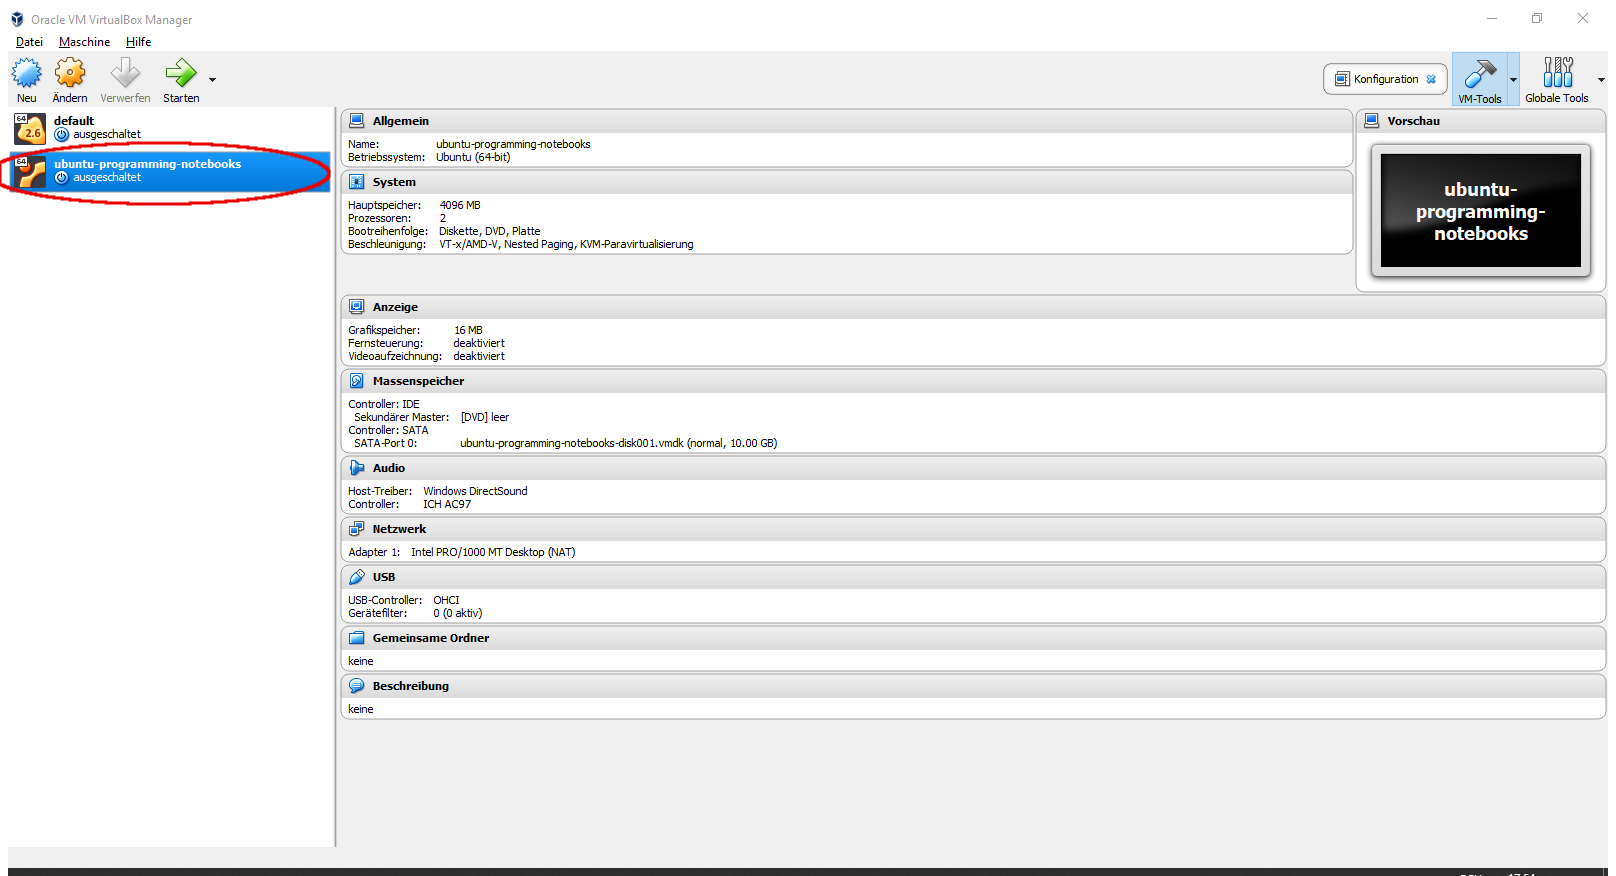
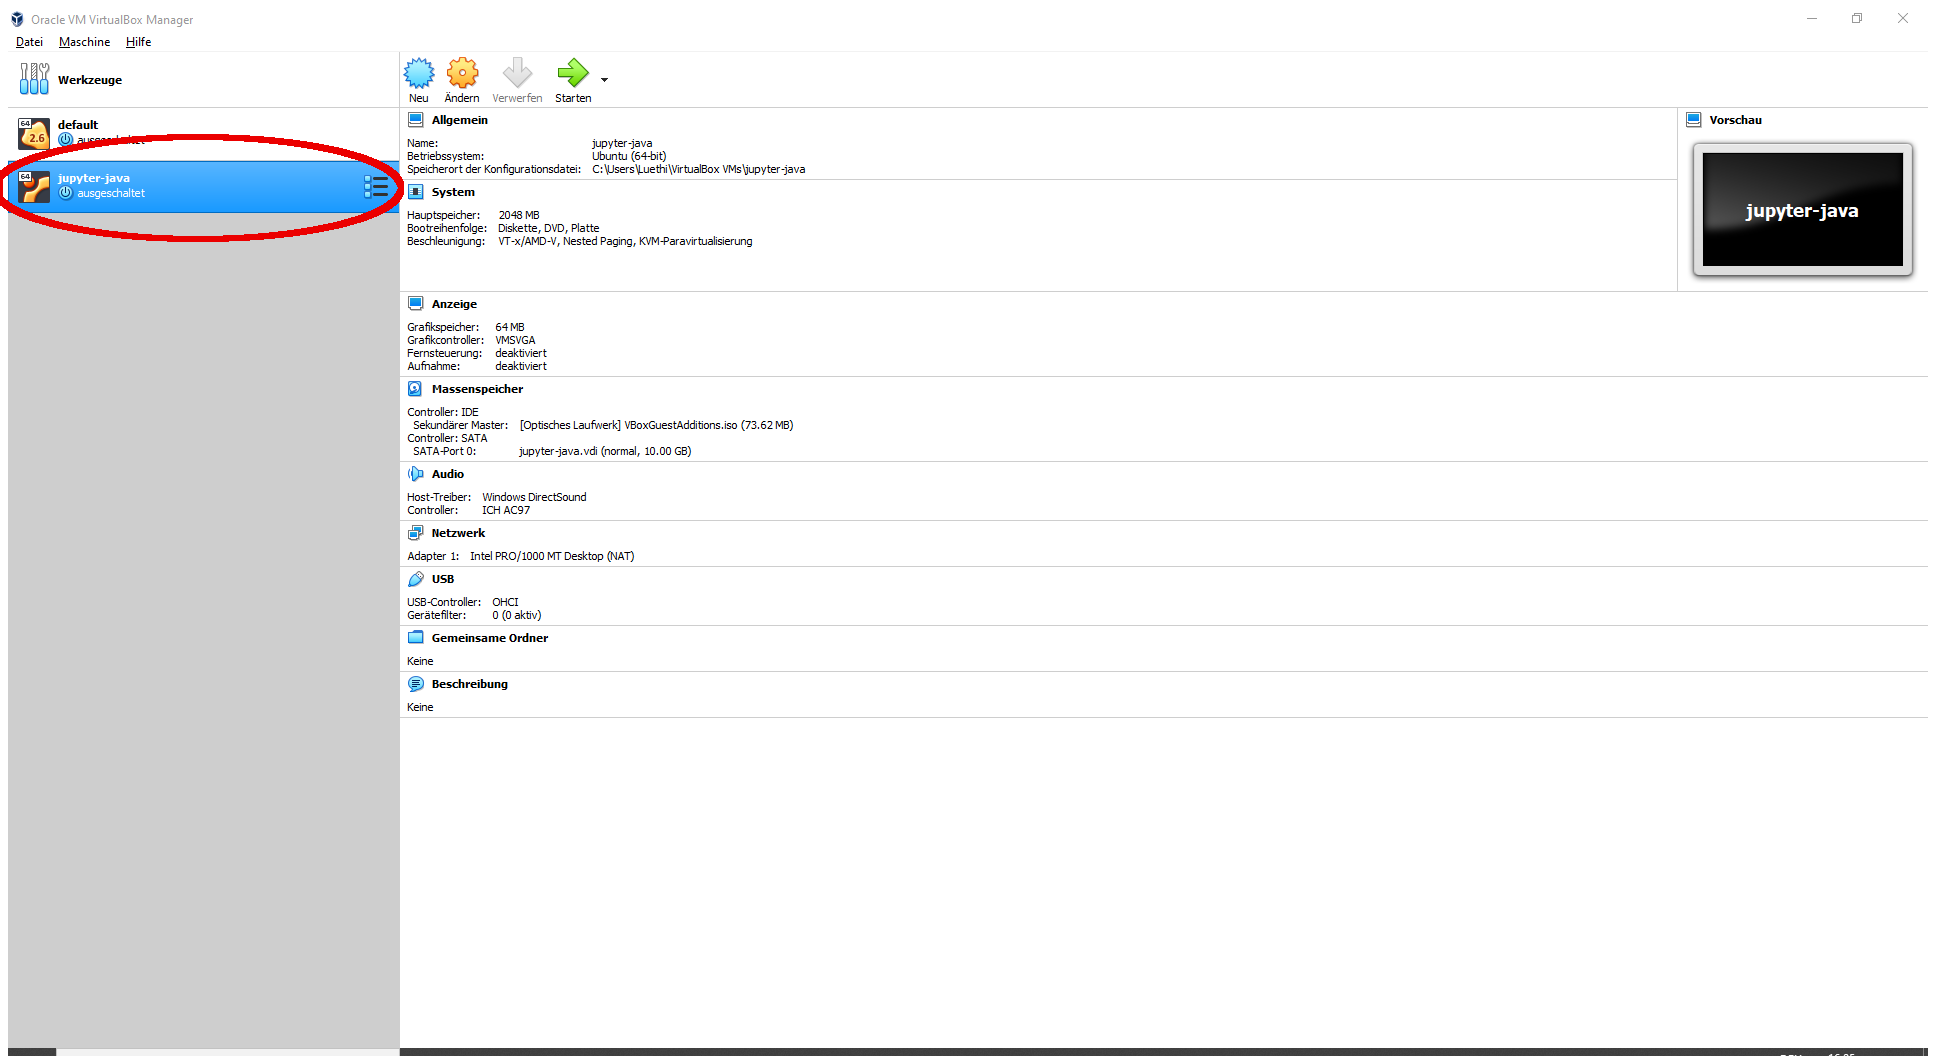
added section regarding virtualbox

diff --git a/docs/installation.md b/docs/installation.md
@@ -3,11 +3,49 @@
 Jupyter-Notebooks sind eine Webanwendung, die es ermöglicht Programme in einem Webbrowser zu schreiben, zu kommentieren und auszuführen. 
  Jupyter Notebooks wurden ursprünglich für Python geschrieben, sind aber inzwischen auch für andere Programmiersprachen verfügbar. Seit kurzen besteht auch die Möglichkeit, Jupyter Notebooks mit Java zur nutzen. 
  Da das dafür benötigte [ijava](https://github.com/SpencerPark/IJava) Programm noch nicht im Standardumfang von Jupyter Notebooks enthalten ist, ist die Installation noch etwas aufwändig. 
- Wir stellen Ihnen deshalb einen [Docker](https://www.docker.com/) Container mit der bereits fertig augesetzten Umgebung zur Verfügung.  Diese Anleitung beschreibt wie Sie diesen Docker Container auf Ihrem System nutzen können.
+ Wir stellen Ihnen deshalb ein [Virtualbox](www.virtualbox.org) image sowie einen [Docker](https://www.docker.com/) Container mit der bereits fertig auggesetzten Umgebung zur Verfügung.  Diese Anleitung beschreibt wie Sie diese Umgebung mittels Virtualbox und Docker installieren und nutzen können. 
 
-*Falls bei der Installation Probleme auftreten, können Sie in eines der Tutorate gehen um sich Hilfe zu holen. Falls Sie auch dann keine Lösung finden, lesen Sie bitte bei Punkt 2 unten weiter.* 
+## Virtualbox oder Docker
 
-## 1. Installation mittels Docker oder Docker Toolbox
+Sie haben zwei verschiedene Möglichkeiten die Jupyter Notebooks zu installieren:
+
+* Sie nutzen Oracle Virtualbox und lassen darauf eine virtuelle Maschine laufen, welche wir für Sie fertig aufgesetzt haben.
+* Sie nutzen Docker und den von uns vorbereiteten Docker Container.
+
+Die erste Variante ist etwas einfacher und kann komplett via einer graphischen Oberfläche durchgeführt werden. Dies ist die empfohlene Variante für alle, die sich möglichst wenig mit technischen Details auseinandersetzen möchen oder gar nicht mit der Kommandozeile vertraut sind. Auch empfehlen wir diese Variante wenn Sie *Windows 10 Home* als ihr Betriebsystem nutzen. 
+Der Hauptnachteil davon ist, dass Sie etwas Festplattenspeicher verschwenden (die Virtuelle Maschine ist ca 5 GB gross) und die Ausführung ist eventuell etwas langsamer als bei der Verwendung von Docker.
+
+Die zweite Variante, die Nutzung von Docker, ist deutlich schlanker. Wir empfehlen diese Variante für alle die Wert auf ein schlankes System legen, versiert mit der Kommandozeile sind, oder sich schon immer mal diese populäre Technologie anschauen wollten. Docker kann man unter allen gängigen Betriebssystemen (Windows, Linux, MacOS) installieren. Am einfachsten ist die Installation aber unter Linux, da Docker ursprünglich für Linux entwickelt wurde.
+
+*Je nach Computertyp müssen Sie im BIOS des Computers die Virtualisierungsunterstützung (VT-X) aktivieren. Das Installationsprogramm wird Ihnen das ensprechend anzeigen. Dieser Schritt ist zum Beispiel [hier](https://www.tactig.com/enable-intel-vt-x-amd-virtualization-pc-vmware-virtualbox/) gut beschrieben. Falls Sie sich in diesem oder einem anderen Installationsschritt unsicher fühlen sollten, können Sie in einer Übungsstunde von den TutorInnen helfen lassen.*
+
+*Falls bei Ihnen keine dieser zwei Varianten funktionieren sollte, haben wie eine Notfalllösung vorbereitet. Sie finden Informationen dazu unter Punkt 3* 
+
+
+## 1. Installation mittels Virtualbox
+
+
+1. Gehen Sie auf die [Downloadseite](https://www.virtualbox.org/wiki/Downloads) von Oracle Virtualbox 
+2. Wählen Sie unter *VirtualBox 6.0.12 platform packages* das Ihrem Betriebssystem entsprechende Paket und installieren Sie dieses. 
+    * (Falls nötig finden Sie weitere Details und Screenshots zur Installation von Virtualbox in dieser [Anleitung](https://www.wikihow.com/Install-VirtualBox))
+3. Laden Sie die Virtuelle Maschine mit den Jupyter-Notebooks von [hier](https://drive.switch.ch/index.php/s/rjMEk0UwrJ6p5wO) herunter. Entpacken Sie das Zip-Archiv.
+4. Starten Sie nun Virtualbox. Sie sollten folgendes Fenster sehen ![vbox-startup](./images/vbox-start.png)
+5. Importieren Sie die in Schritt 3 heruntergeladene Datei indem Sie ```Datei->Appliance importieren``` wählen, und die entsprechende Datei im Dialogfenster auswählen. Drücken Sie ```Weiter``` und wählen Sie ```Importieren``` auf der nächsten Seite. 
+6. Starten Sie die Virtuelle Machine indem Sie diese in der Liste auf der Linken Seite die soeben importierte Maschine auswählen und den Startbutton drücken.
+
+![jupyter](images/vbox-selection.png)
+
+Herzliche Gratulation! Die Installation ist hiermit abgeschlossen und Sie können mit den Notebooks arbeiten. 
+
+
+### 1.1 Starten von Jupyter Notebooks
+Starten Sie den Firefox Browser. In der Toolbar sollten Sie den Button *Jupyter-notebooks* sehen. Dieser bringt Sie direkt zu den Notebooks. 
+
+*Wichtig! Nach langer Inaktivität wird der Screen der Virtuellen Machine gesperrt und sie werden nach dem Passwort gefragt. Der Benutzername für die Virtualbox ist ```jupyter``` und das Passwort ```notebook```.*
+
+
+
+## 2. Installation mittels Docker oder Docker Toolbox
 
 Damit Sie den unseren Docker Container nutzen können, müssen Sie zuerst Docker oder Docker toolbox auf Ihrem System installieren. Docker toolbox wählen Sie immer dann, wenn Sie auf einer Windows version arbeiten, die Docker nicht unterstützt (Wie zum Beispiel Windows 10 home) oder Sie bereits Virtualbox unter Windows einsetzen. 
 
@@ -16,6 +54,7 @@ Damit Sie den unseren Docker Container nutzen können, müssen Sie zuerst Docker
     * Anleitung für [Windows (Docker toolbox)](https://docs.docker.com/toolbox/toolbox_install_windows/)
     * Anleitung für [MacOS](https://docs.docker.com/docker-for-mac/install/)
     * Anleitung für Linux: [Ubuntu](https://docs.docker.com/install/linux/docker-ce/ubuntu/), [Debian](https://docs.docker.com/install/linux/docker-ce/debian/), [Fedora](https://docs.docker.com/install/linux/docker-ce/fedora/), [CentOS](https://docs.docker.com/install/linux/docker-ce/centos/)
+
 
 2. Öffnen Sie eine Kommandozeile (Terminal). Sie sollten in dieser Kommandozeile Administrationsrechte haben.
     * Unter Windows können Sie die Kommandozeile als Administrator öffnen indem Sie im Startmenu auf den Kommandozeileneintrag Rechtsklicken und "als Administrator ausführen" auswählen.
@@ -29,15 +68,14 @@ docker pull marcelluethi/programmieren-notebooks:1.3
 
 *Falls Sie in diesem Schritt eine Fehlermeldung bekommen, könnte es daran liegen, dass Docker nicht gestartet ist. Unter Windows und MacOS starten Sie Docker, in dem Sie die Docker Anwendung aufrufen (Sie finden diese im Startmenu). Unter Linux sollte dieses Problem nicht auftauchen.*
 
-Falls Sie diesen Schritt erfolgreich durchgeführt haben, steht Ihnen nun die Jupyter Notebooks Umgebung auf Ihrem Computer zur Verfügung. 
-
-### Starten von Jupyter Notebooks
 
 Bevor Sie die Jupyter Notebooks verwenden können müssen Sie diese noch starten. 
 Dazu geben sie folgenden Befehl ein
 ```
-docker run -p 8888:8888 -it marcelluethi/programmieren-notebooks:1.3
+docker run --name jupyter-java -p 8888:8888  -it marcelluethi/programmieren-notebooks:1.3
 ```
+
+Falls Sie diesen Schritt erfolgreich durchgeführt haben, steht Ihnen nun die Jupyter Notebooks Umgebung auf Ihrem Computer zur Verfügung. 
 
 Starten Sie nun einen Browser und falls Sie Docker (und nicht Docker toolbox verwenden) geben Sie folgende URL ein 
 ```
@@ -51,9 +89,20 @@ http://192.168.99.100:8888
 Falls Sie folgende Webseite sehen, war die Installation erfolgreich.
 ![jupyter](images/jupyter.png) 
 
-## 2. Jupyter Notebooks in der Cloud
 
-Falls Sie Probleme mit der Installation von Docker haben, die auch von den Tutoren nicht gelöst werden können, können Sie auf eine Cloudbasierte Lösung zurückgreifen. Diese Lösung hat die Einschränkung, dass Sie zwar alle Programme ausführen und verändern können, diese aber nicht speichern können. Ausserdem kann das System bei hoher Nutzung langsam werden. *Eine lokale Installation ist deshalb immer die bevorzugte Lösung!*
+### Starten des Docker containers nach einem Neustart des Systems
+
+Wenn Sie den Computer neu starten oder im Jupiter Notebook auf den *Quit* Knopf drücken, wird der Docker container gestoppt. Um diesen wieder zu starten, geben Sie folgendes Kommando ein
+
+```
+docker start jupyter-java
+```
+
+
+
+## 3. Jupyter Notebooks in der Cloud
+
+Falls Sie Probleme mit der Installation von Docker haben, die auch von den Tutoren nicht gelöst werden können, können Sie auf eine cloudbasierte Lösung zurückgreifen. Diese Lösung hat die Einschränkung, dass Sie zwar alle Programme ausführen und verändern können, diese aber nicht speichern können. Ausserdem kann das System bei hoher Nutzung langsam werden. *Eine lokale Installation ist deshalb immer die bevorzugte Lösung!*
 
 
 Gehen Sie zurück auf die Github Seite: [https://github.com/unibas-marcelluethi/programmieren-notebooks](https://github.com/unibas-marcelluethi/programmieren-notebooks).
